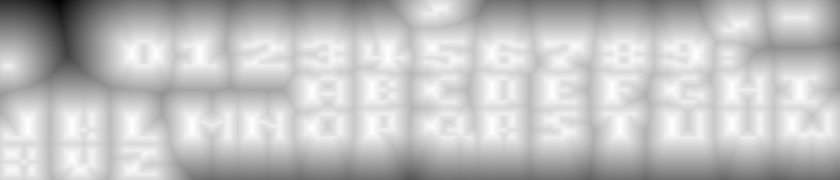
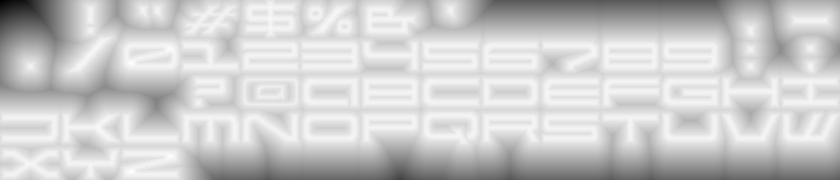
We now have a set of non-terrible fonts.

diff --git a/font-ttf-2.py b/font-ttf-2.py
@@ -1,0 +1,104 @@
+from PIL import Image, ImageDraw, ImageFont
+import numpy as np
+from scipy.ndimage import distance_transform_edt, zoom, distance_transform_cdt, distance_transform_bf
+import hqx
+import snowy
+
+font_table = {
+    ' ': 0x0000, '!': 0x4904, '"': 0xB400, '#': 0xFFFF,
+    '$': 0xF45E, '%': 0xA54A, '&': 0x0000, '\'': 0x4800,
+    '[': 0x2922, ']': 0x8928, '*': 0x1550, '+': 0x0BA0,
+    ',': 0x0128, '-': 0x0380, '.': 0x0004, '/': 0x2548,
+    '0': 0xF6DE, '1': 0x4924, '2': 0xE7CE, '3': 0xE59E,
+    '4': 0xB792, '5': 0xF39E, '6': 0xD3DE, '7': 0xE524,
+    '8': 0xF7DE, '9': 0xF792, ':': 0x0820, ';': 0x0828,
+    '<': 0x2A22, '=': 0x1C70, '>': 0x88A8, '?': 0xE584,
+    '@': 0xFFCE, 'A': 0x57DA, 'B': 0xD75C, 'C': 0x7246,
+    'D': 0xD6DC, 'E': 0xF34E, 'F': 0xF348, 'G': 0x7256,
+    'H': 0xB7DA, 'I': 0xE92E, 'J': 0x24DE, 'K': 0xB75A,
+    'L': 0x924E, 'M': 0xBFDA, 'N': 0xBFFA, 'O': 0x56D4,
+    'P': 0xF7C8, 'Q': 0xF7A6, 'R': 0xF7EA, 'S': 0x739C,
+    'T': 0xE924, 'U': 0xB6DE, 'V': 0xB6D4, 'W': 0xB7FA,
+    'X': 0xB55A, 'Y': 0xB7A4, 'Z': 0xE54E
+}
+
+# Load the TTF file
+font = ImageFont.truetype('MBFNecoma.ttf', 56)  # Adjust the size as needed
+
+def draw_char(c):
+    # Create a blank image
+    img = Image.new('L', (60, 36), 255)
+    draw = ImageDraw.Draw(img)
+
+    # Get the width and height of the glyph
+    w, h = draw.textsize(c, font=font)
+    
+    # Calculate the starting point to center the glyph
+    start_x = (img.width - w) / 2
+    start_y = (img.height - h) / 2
+    
+    # Draw the character
+    draw.text((start_x, start_y), c, font=font, fill=0, align='center')
+    
+    # Convert the image to a numpy array
+    img = np.array(img)
+    return img
+
+def draw_string(s):
+    # Convert the string to uppercase
+    s = s.upper()
+    # Draw each character and concatenate
+    imgs = [draw_char(c) for c in s]
+    return np.concatenate(imgs, axis=1)
+
+# Draw the string
+# Create a texture atlas of all the characters in the font
+atlas = [draw_string(c) for c in font_table.keys()]
+
+# Split the string into four rows of characters
+rows = []
+for i in range(0, len(atlas), len(atlas)//4):
+    row = atlas[i:i+len(atlas)//4]
+    # Add empty characters to the final row if necessary
+    while len(row) < len(atlas)//4:
+        row.append(draw_string(' '))
+    rows.append(np.concatenate(row, axis=1))
+
+# Concatenate all the rows vertically
+img = np.concatenate(rows, axis=0)
+
+# Save the texture atlas
+Image.fromarray(img.astype(np.uint8)).save('ttf_original_string.png')
+
+pil_img = Image.fromarray(img.astype(np.uint8))
+
+# Convert the image to a binary array
+binary_img = img > 254
+
+binary_img = np.expand_dims(binary_img, axis=-1).astype(bool)
+
+snowy_sdf = snowy.unitize(snowy.generate_sdf(binary_img != 0.0))
+
+snowy_sdf = np.squeeze(snowy_sdf, axis=-1)
+
+# Scale up the distance transform
+scale_factor = 1.0
+large_sdf = zoom(snowy_sdf, scale_factor)
+
+large_sdf = (large_sdf * 255).astype(np.uint8)
+
+Image.fromarray(large_sdf).save('FONT2_sdf.png')
+
+bottomThreshold = 195
+topThreshold = 210
+
+large_sdf[large_sdf < bottomThreshold] = 0
+large_sdf[large_sdf > topThreshold] = 255
+
+
+
+Image.fromarray(large_sdf).save('ttf_large_string.png')
+
+import os
+os.system('eog FONT2_sdf.png &')
+

diff --git a/src/emul/graphics.cpp b/src/emul/graphics.cpp
@@ -891,8 +891,6 @@ void DoRotoscope(std::vector<uint32_t>& windowData, const std::vector<Rotoscope>
                     constexpr float fontSpaceWidth = 15.0f * 4.0f;
                     constexpr float fontSpaceHeight = 9.0f * 4.0f;
 
-                    float fontWidth = (float)(roto.textData.fontWidth * 2) * 4.0f;
-                    float fontHeight = (float)roto.textData.fontHeight * 4.0f;
 
                     constexpr float atlasWidth = 840.0f;
                     constexpr float atlasHeight = 180.0f;
@@ -905,12 +903,8 @@ void DoRotoscope(std::vector<uint32_t>& windowData, const std::vector<Rotoscope>
                     float u = fontCol * fontSpaceWidth / atlasWidth;
                     float v = fontRow * fontSpaceHeight / atlasHeight;
 
-                    // We put padding in our atlas
-                    u += 4.0f / atlasWidth;
-                    v += 4.0f / atlasHeight;
-
-                    u += fontX * (fontWidth / atlasWidth);
-                    v += fontY * (fontHeight / atlasHeight);
+                    u += fontX * (fontSpaceWidth / atlasWidth);
+                    v += fontY * (fontSpaceHeight / atlasHeight);
 
                     auto glyph = bilinearSample(FONT2Texture, u, v);
                     pixel = colortable[roto.textData.bgColor & 0xf];
